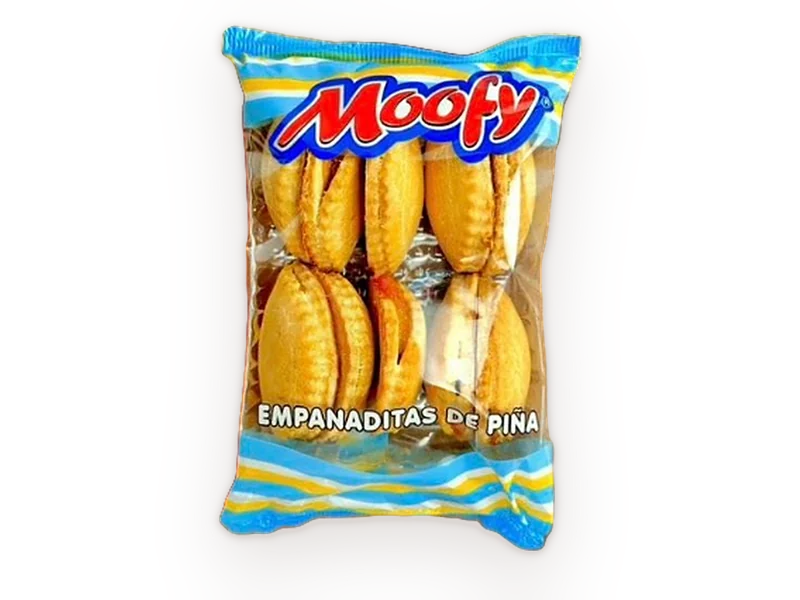
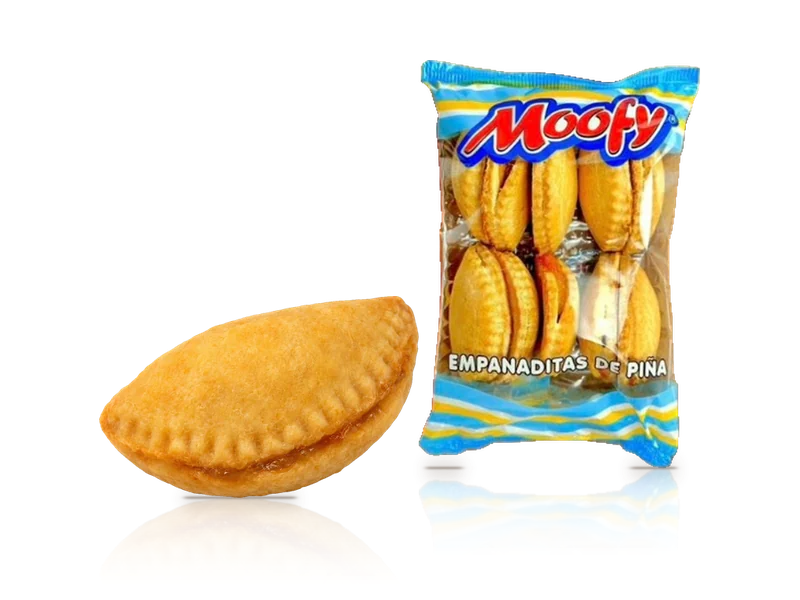
Poner la pieza junto al empaque en seis productos del catálogo
Empanadas, grissines y bizcochos de maíz salían con la bolsa sola, y
media luna, galletas Pan y rosquillas no tenían foto. Ahora siguen el
packshot aprobado: empaque de pie y la pieza al lado, con el mismo
suelo, sombra de contacto y reflejo que las demás.

Las piezas sueltas y las cajas de media luna, Panjosé y rosquillas se
generaron con Codex a partir de las fotos reales del producto, con
autorización expresa del usuario; las etiquetas se revisaron contra las
cajas reales. Las bolsas de empanadas, grissines y maíz son las reales.

diff --git a/libs/moofy/frontend/shared/src/lib/data/site.ts b/libs/moofy/frontend/shared/src/lib/data/site.ts
@@ -244,7 +244,7 @@ export const PRODUCTOS: readonly Producto[] = [
     descripcion: 'Doraditas y crujientes por fuera, suaves por dentro y con un relleno generoso.',
     atributos: ['Crujiente', 'Relleno dulce'],
     imagen: 'img/productos/empanadas.webp',
-    alt: 'Bolsa Moofy de empanaditas de piña.',
+    alt: 'Empanadita de piña, junto a su bolsa Moofy.',
   },
   {
     id: 'choco-gatos',
@@ -323,8 +323,8 @@ export const PRODUCTOS: readonly Producto[] = [
     linea: 'panaderia-dulce',
     descripcion: 'Doradita, suave y ligera, de sabor delicado para acompañar un café.',
     atributos: ['Suave', 'Ligero'],
-    imagen: null,
-    alt: '',
+    imagen: 'img/productos/media-luna.webp',
+    alt: 'Media luna dorada, junto a su caja Moofy.',
   },
   {
     id: 'julietas',
@@ -353,8 +353,8 @@ export const PRODUCTOS: readonly Producto[] = [
     linea: 'galleteria',
     descripcion: 'Crujientes y doraditas, de textura ligera y dulzor suave.',
     atributos: ['Crujiente', 'Ligero'],
-    imagen: null,
-    alt: '',
+    imagen: 'img/productos/galletas-pan.webp',
+    alt: 'Galleta dulce de panadería, junto a su caja Panjosé.',
   },
   {
     id: 'bizcotela',
@@ -383,8 +383,8 @@ export const PRODUCTOS: readonly Producto[] = [
     linea: 'salados',
     descripcion: 'Doraditas y bien tostadas, con queso por encima.',
     atributos: ['Crocante', 'Toque salado'],
-    imagen: null,
-    alt: '',
+    imagen: 'img/productos/rosquillas.webp',
+    alt: 'Rosquilla tostada con queso, junto a su caja Moofy.',
   },
   {
     id: 'grissines',
@@ -394,7 +394,7 @@ export const PRODUCTOS: readonly Producto[] = [
     descripcion: 'Crujientes y de textura firme, para picar o acompañar.',
     atributos: ['Crocante', 'Firme'],
     imagen: 'img/productos/grissines.webp',
-    alt: 'Bolsa Moofy de grissines.',
+    alt: 'Grissin casero, junto a su bolsa Moofy.',
   },
   {
     id: 'bizcochos-maiz',
@@ -404,7 +404,7 @@ export const PRODUCTOS: readonly Producto[] = [
     descripcion: 'Firmes y doraditos, con el toque de maíz de siempre.',
     atributos: ['Tradicional', 'Sabor casero'],
     imagen: 'img/productos/bizcochos-maiz.webp',
-    alt: 'Bolsa Moofy de bizcochos de maíz.',
+    alt: 'Bizcocho de maíz, junto a su bolsa Moofy.',
   },
   {
     id: 'bizcochos-guayaba',
